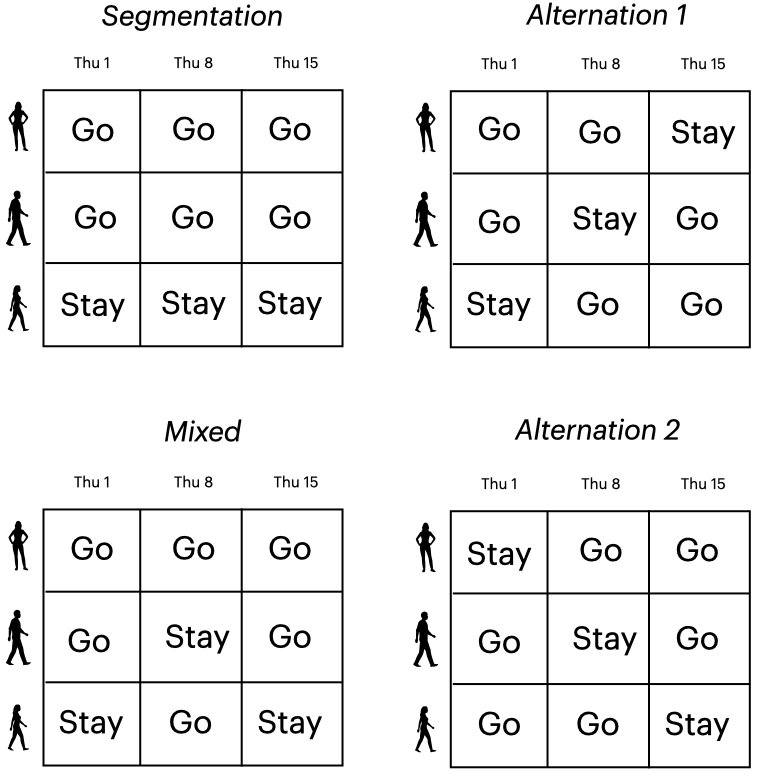
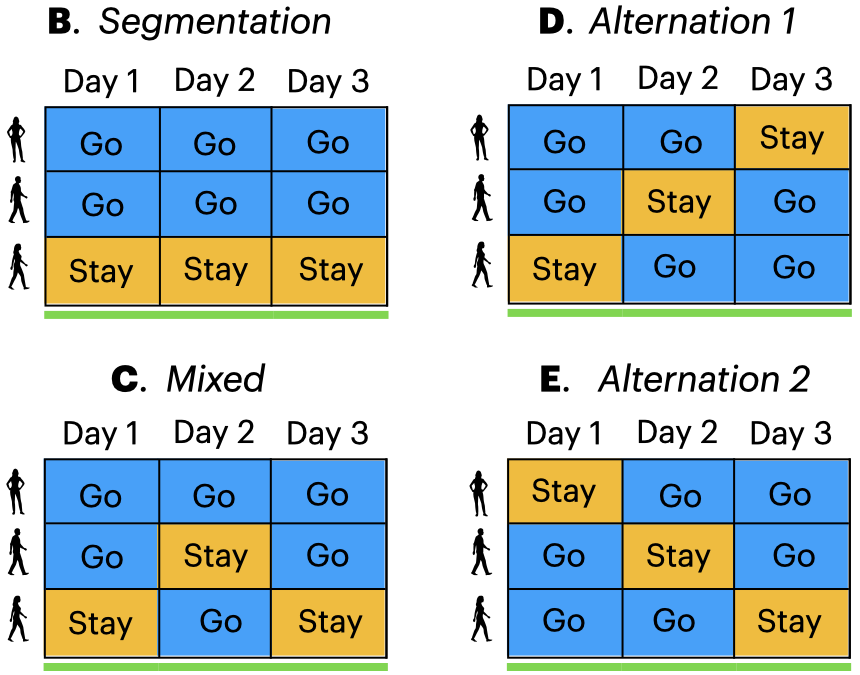
Update El Farol research figures and schema-selection scrolly.

diff --git a/pages/research.md b/pages/research.md
@@ -58,15 +58,38 @@ The El Farol Bar Problem captures the tension between individual and collective 
   <div class="scrolly-sticky">
     <div class="scrolly-figure">
       <img data-step="0" class="is-active" src="../assets/images/research/types_of_coordination.png" alt="Types of coordination">
-      <img data-step="1" src="../assets/images/research/focal_schemata_selection.png" alt="Focal schemata selection">
     </div>
   </div>
   <div class="scrolly-steps">
     <div class="scrolly-step is-active" data-step="0">
       <p>Attendance patterns such as the segmented and mixed solutions shown in the left column of the figure achieve efficient use of the bar while producing unequal payoffs across individuals. By contrast, the two alternation patterns in the right column achieve the same level of efficiency while distributing attendance opportunities equally over time.</p>
     </div>
+  </div>
+</section>
+
+We found that people maintain a small repertoire of intuitive behavioral patterns, then track which focal pattern best reflects the group's recent history and coordinate their actions based on the predictions of this best-fitting schema.
+
+<section class="scrolly" aria-label="El Farol schema selection">
+  <div class="scrolly-sticky">
+    <div class="scrolly-figure">
+      <img data-step="0" class="is-active" src="../assets/images/research/el_farol_004.png" alt="Initial attendance history">
+      <img data-step="1" src="../assets/images/research/el_farol_005.png" alt="Candidate cognitive schemas">
+      <img data-step="2" src="../assets/images/research/el_farol_006.png" alt="Individuals evaluating candidate schemas">
+      <img data-step="3" src="../assets/images/research/el_farol_007.png" alt="Selected schema generating a new attendance history">
+    </div>
+  </div>
+  <div class="scrolly-steps">
+    <div class="scrolly-step is-active" data-step="0">
+      <p>Starting from a history of attendance decisions,</p>
+    </div>
     <div class="scrolly-step" data-step="1">
-      <p>We found that people maintain a small repertoire of intuitive behavioral patterns, then track which focal pattern best reflects the group's recent history and coordinate their actions based on the predictions of this best-fitting schema. An illustration of this mechanism is shown in the figure.</p>
+      <p>and a small repertoire of cognitive schemas, individuals evaluate the similarity between the observed history and each candidate schema.</p>
+    </div>
+    <div class="scrolly-step" data-step="2">
+      <p>Each schema encodes a complete set of policies, specifying who performs which action and when. In some situations, a single schema is clearly favored; in others, multiple schemas remain plausible.</p>
+    </div>
+    <div class="scrolly-step" data-step="3">
+      <p>Individuals then act according to the selected schema, generating a new history and repeating the process.</p>
     </div>
   </div>
 </section>
